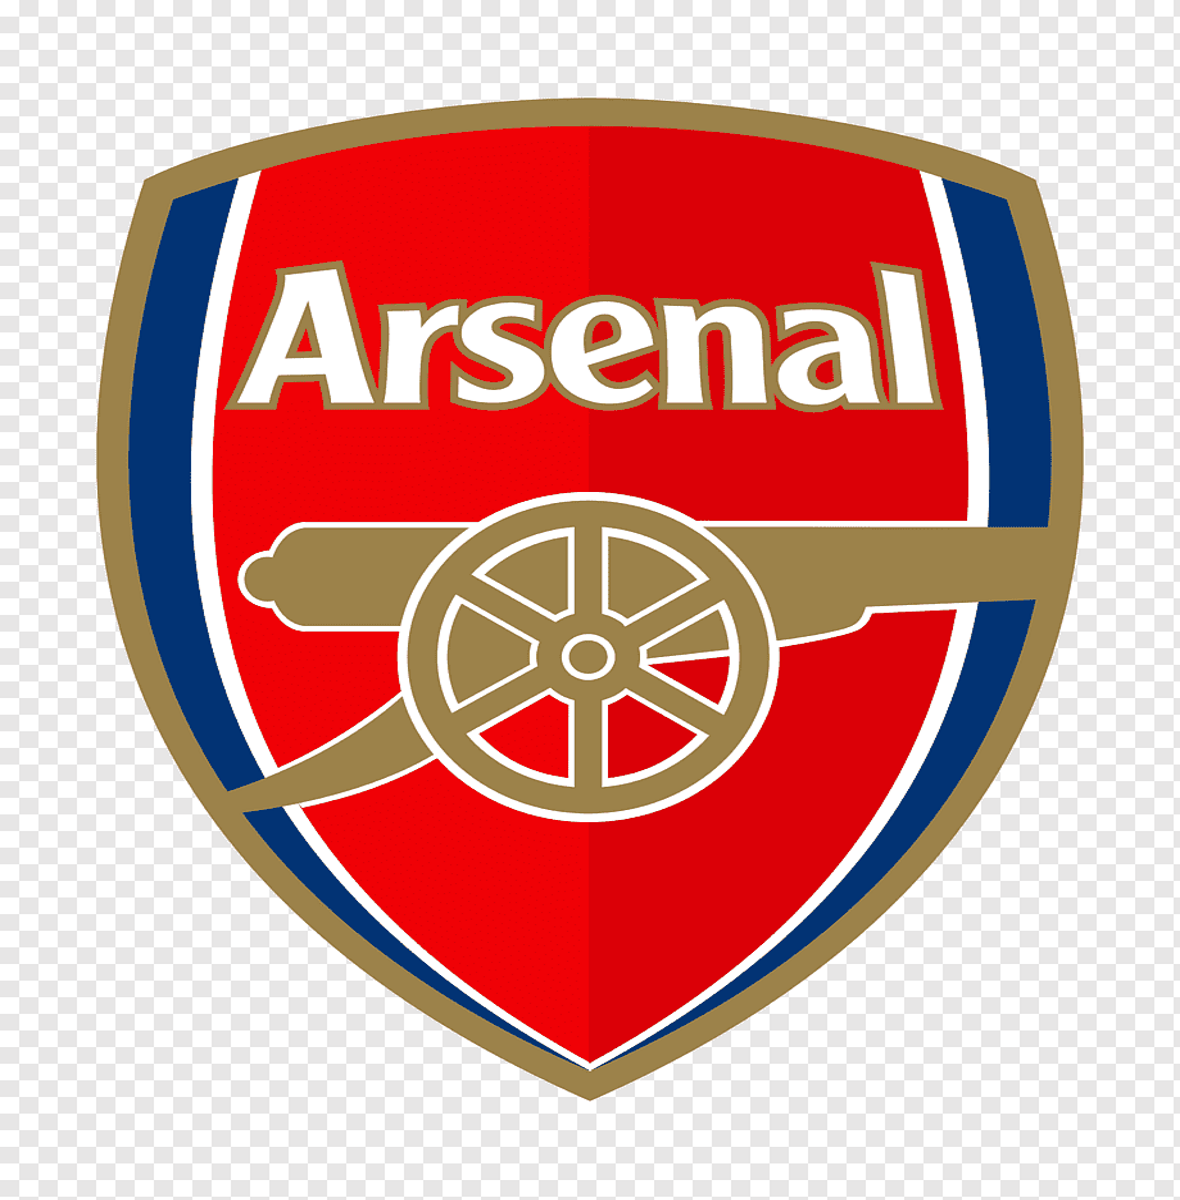
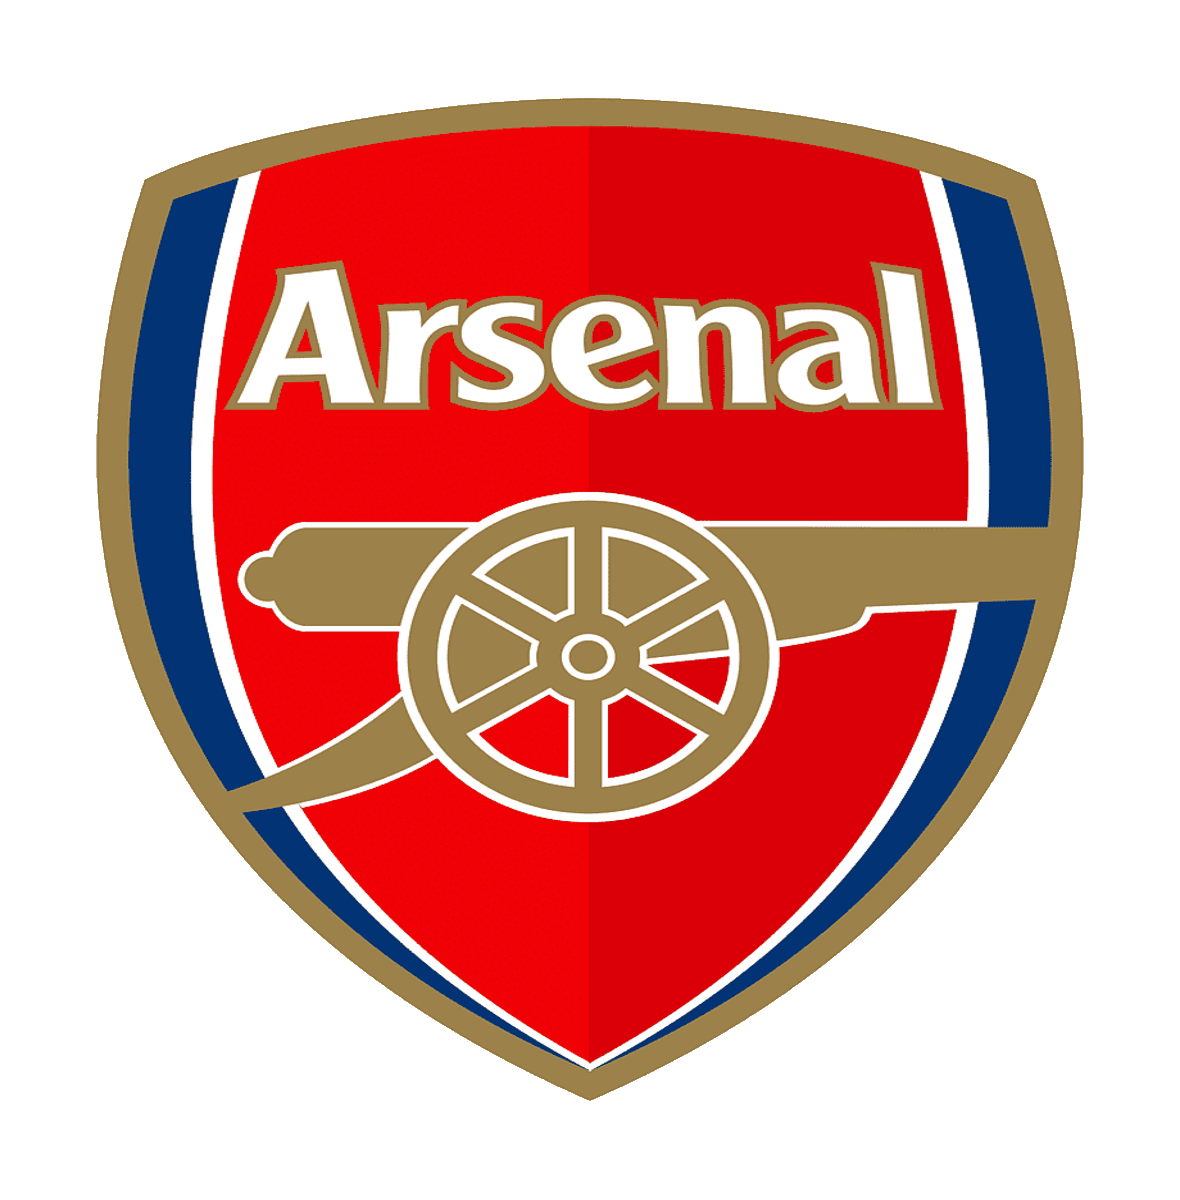
Completed Episode: Batch Rendering Indices

Changed region(s): [[0.0, 0.0, 1.0, 1.0]]

diff --git a/OpenGL-Sandbox/src/SandboxLayer.cpp b/OpenGL-Sandbox/src/SandboxLayer.cpp
@@ -28,17 +28,18 @@ static GLuint LoadTexture(const std::string& path)
 
     // Load image png file
     stbi_set_flip_vertically_on_load(1);
-    auto* pixels = stbi_load(path.c_str(), &width, &height, &bitsPerPixel, STBI_rgb);
+    auto* pixels = stbi_load(path.c_str(), &width, &height, &bitsPerPixel, STBI_rgb_alpha);
     GLuint textureID;
 
-    glCreateTextures(GL_TEXTURE_2D, 1, &textureID);
+    glGenTextures(1, &textureID);
     glBindTexture(GL_TEXTURE_2D, textureID);
 
     glTexParameteri(GL_TEXTURE_2D, GL_TEXTURE_MIN_FILTER, GL_LINEAR);
     glTexParameteri(GL_TEXTURE_2D, GL_TEXTURE_MAG_FILTER, GL_LINEAR);
     glTexParameteri(GL_TEXTURE_2D, GL_TEXTURE_WRAP_S, GL_CLAMP_TO_EDGE);
     glTexParameteri(GL_TEXTURE_2D, GL_TEXTURE_WRAP_T, GL_CLAMP_TO_EDGE);
-    glTexImage2D(GL_TEXTURE_2D, 0, GL_RGB8, width, height, 0, GL_RGB, GL_UNSIGNED_BYTE, pixels);
+
+    glTexImage2D(GL_TEXTURE_2D, 0, GL_RGBA8, width, height, 0, GL_RGBA, GL_UNSIGNED_BYTE, pixels);
 
     stbi_image_free(pixels);
 
@@ -54,12 +55,21 @@ void SandboxLayer::OnAttach()
         "assets/shader.glsl.frag"
     ));
 
+    // Enable Blending
+    glEnable(GL_BLEND);
+    // We are defining how open GL is going to blend alpha pixels
+    glBlendFunc(GL_SRC_ALPHA, GL_ONE_MINUS_SRC_ALPHA);
+
     glUseProgram(m_Shader->GetRendererID());
     const auto loc = glGetUniformLocation(m_Shader->GetRendererID(), "u_Textures");
     int samplers[2] = { 0, 1 };
     glUniform1iv(loc, 2, samplers);
 
     glClearColor(0.1f, 0.1f, 0.1f, 1.0f);
+
+    const size_t MaxQuadCount = 1000;
+    const size_t MaxVertexCount = MaxQuadCount * 4;
+    const size_t MaxIndexCount = MaxQuadCount * 6;
 
     // Vertex Array
     glCreateVertexArrays(1, &m_QuadVA);
@@ -68,7 +78,7 @@ void SandboxLayer::OnAttach()
     // Vertex Buffer
     glCreateBuffers(1, &m_QuadVB);
     glBindBuffer(GL_ARRAY_BUFFER, m_QuadVB);
-    glBufferData(GL_ARRAY_BUFFER, sizeof(Vertex) * 1000, nullptr, GL_DYNAMIC_DRAW);
+    glBufferData(GL_ARRAY_BUFFER, MaxVertexCount * sizeof(Vertex), nullptr, GL_DYNAMIC_DRAW);
 
     // Setup Vertex Attribute Pointer - For position
     glEnableVertexArrayAttrib(m_QuadVB, 0);
@@ -86,10 +96,24 @@ void SandboxLayer::OnAttach()
     glEnableVertexArrayAttrib(m_QuadVB, 3);
     glVertexAttribPointer(3, 1, GL_FLOAT, GL_FALSE, sizeof(Vertex), reinterpret_cast<const void*>(offsetof(Vertex, TexID)));
 
-    uint32_t indices[] = {
+    /*uint32_t indices[] = {
         0, 1, 2, 2, 3, 0,
         4, 5, 6, 6, 7, 4
-    };
+    };*/
+
+    uint32_t indices[MaxIndexCount];
+    uint32_t offset = 0;
+    for (size_t i = 0; i < MaxIndexCount; i += 6)
+    {
+        indices[i] = offset;
+        indices[i+1] = 1 + offset;
+        indices[i+2] = 2 + offset;
+        indices[i+3] = 2 + offset;
+        indices[i+4] = 3 + offset;
+        indices[i+5] = offset;
+
+        offset += 4;
+    }
 
     // Index Buffer
     glCreateBuffers(1, &m_QuadIB);
@@ -110,35 +134,35 @@ void SandboxLayer::OnEvent(Event& event)
     m_CameraController.OnEvent(event);
 }
 
-static std::array<Vertex, 4> CreateQuad(float x, float y, float textureID)
+static Vertex* CreateQuad(Vertex* target, float x, float y, float textureID)
 {
-    float size = 1.0f;
+    const float size = 1.0f;
 
-    Vertex v0;
-    v0.Position = { x, y, 0.0f };
-    v0.Color = { 0.18f, 0.6f, 0.96f, 1.0f };
-    v0.TexCoords = { 0.0f, 0.0f };
-    v0.TexID = textureID;
+    target->Position = { x, y, 0.0f };
+    target->Color = { 0.18f, 0.6f, 0.96f, 1.0f };
+    target->TexCoords = { 0.0f, 0.0f };
+    target->TexID = textureID;
+    target++;
 
-    Vertex v1;
-    v1.Position = { x + size, y, 0.0f };
-    v1.Color = { 0.18f, 0.6f, 0.96f, 1.0f };
-    v1.TexCoords = { 1.0f, 0.0f };
-    v1.TexID = textureID;
+    target->Position = { x + size, y, 0.0f };
+    target->Color = { 0.18f, 0.6f, 0.96f, 1.0f };
+    target->TexCoords = { 1.0f, 0.0f };
+    target->TexID = textureID;
+    target++;
 
-    Vertex v2;
-    v2.Position = { x + size,  y + size, 0.0f };
-    v2.Color = { 0.18f, 0.6f, 0.96f, 1.0f };
-    v2.TexCoords = { 1.0f, 1.0f };
-    v2.TexID = textureID;
+    target->Position = { x + size,  y + size, 0.0f };
+    target->Color = { 0.18f, 0.6f, 0.96f, 1.0f };
+    target->TexCoords = { 1.0f, 1.0f };
+    target->TexID = textureID;
+    target++;
 
-    Vertex v3;
-    v3.Position = { x,  y + size, 0.0f };
-    v3.Color = { 0.18f, 0.6f, 0.96f, 1.0f };
-    v3.TexCoords = { 0.0f, 1.0f };
-    v3.TexID = textureID;
+    target->Position = { x,  y + size, 0.0f };
+    target->Color = { 0.18f, 0.6f, 0.96f, 1.0f };
+    target->TexCoords = { 0.0f, 1.0f };
+    target->TexID = textureID;
+    target++;
 
-    return { v0, v1,v2,v3};
+    return target;
 }
 
 void SandboxLayer::OnUpdate(Timestep ts)
@@ -159,16 +183,25 @@ void SandboxLayer::OnUpdate(Timestep ts)
          0.5f,  0.5f, 0.0f, 1.0f, 0.93f, 0.24f, 1.0f, 0.0f, 1.0f, 1.0f,
     };*/
 
-    // Set dynamic Vertex Buffer
-    auto q0 = CreateQuad(m_QuadAPosition[0], m_QuadAPosition[1], 0.0f);
-    auto q1 = CreateQuad(m_QuadBPosition[0], m_QuadBPosition[1], 1.0f);
+    uint32_t indexCount = 0;
+    std::array<Vertex, 1000> vertices{};
+    Vertex* buffer = vertices.data();
 
-    Vertex vertices[8];
-    memcpy(vertices, q0.data(), q0.size() * sizeof(Vertex));
-    memcpy(vertices + q0.size(), q1.data(), q1.size() * sizeof(Vertex));
+    // Create a 5 by 5 array of quads
+    for (int x = 0; x < 5; x++)
+    {
+        for (int y = 0; y < 5; y++)
+        {
+            buffer = CreateQuad(buffer, float(x), float(y), float((x + y) % 2));
+            indexCount += 6;
+        }
+    }
+
+    CreateQuad(buffer, m_QuadAPosition[0], m_QuadAPosition[1], 0.0f);
+    indexCount += 6;
 
     glBindBuffer(GL_ARRAY_BUFFER, m_QuadVB);
-    glBufferSubData(GL_ARRAY_BUFFER, 0, sizeof(vertices), vertices);
+    glBufferSubData(GL_ARRAY_BUFFER, 0, vertices.size() * sizeof(Vertex), vertices.data());
 
     glClear(GL_COLOR_BUFFER_BIT);
 
@@ -183,7 +216,7 @@ void SandboxLayer::OnUpdate(Timestep ts)
     //m_Shader->SetUniform4fv(m_Shader->GetRendererID(), "u_Color", m_SquareColor);
 
     glBindVertexArray(m_QuadVA);
-    glDrawElements(GL_TRIANGLES, 12, GL_UNSIGNED_INT, nullptr);
+    glDrawElements(GL_TRIANGLES, indexCount, GL_UNSIGNED_INT, nullptr);
 }
 
 void SandboxLayer::OnImGuiRender()

diff --git a/OpenGL-Sandbox/src/SandboxApp.cpp b/OpenGL-Sandbox/src/SandboxApp.cpp
@@ -12,6 +12,18 @@ public:
     }
 };
 
+// Force rendering on NVIDIA GPU
+extern "C"
+{
+    __declspec(dllexport) unsigned long NvOptimusEnablement = 0x00000001;
+}
+
+// Force rendering on AMD GPU
+extern "C"
+{
+    __declspec(dllexport) int AmdPowerXpressRequestHighPerformance = 1;
+}
+
 int main()
 {
     std::unique_ptr<Sandbox> app = std::make_unique<Sandbox>();

diff --git a/OpenGL-Core/src/Platform/Windows/WindowsWindow.cpp b/OpenGL-Core/src/Platform/Windows/WindowsWindow.cpp
@@ -66,6 +66,7 @@ namespace GLCore {
 			WindowData& data = *(WindowData*)glfwGetWindowUserPointer(window);
 			data.Width = width;
 			data.Height = height;
+			glViewport(0, 0, width, height);
 
 			WindowResizeEvent event(width, height);
 			data.EventCallback(event);
